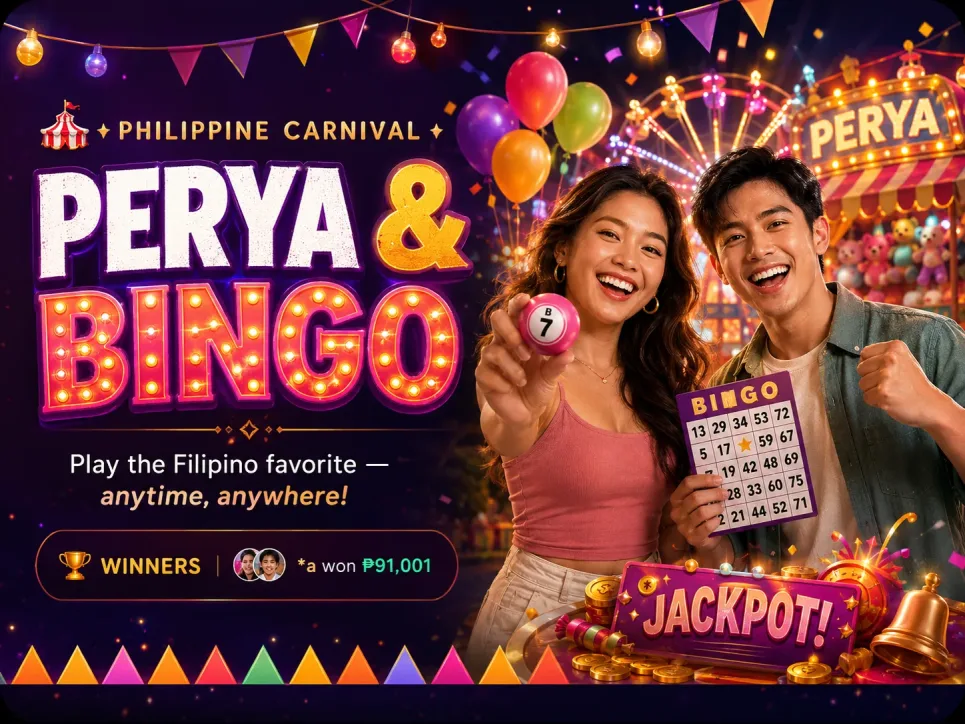
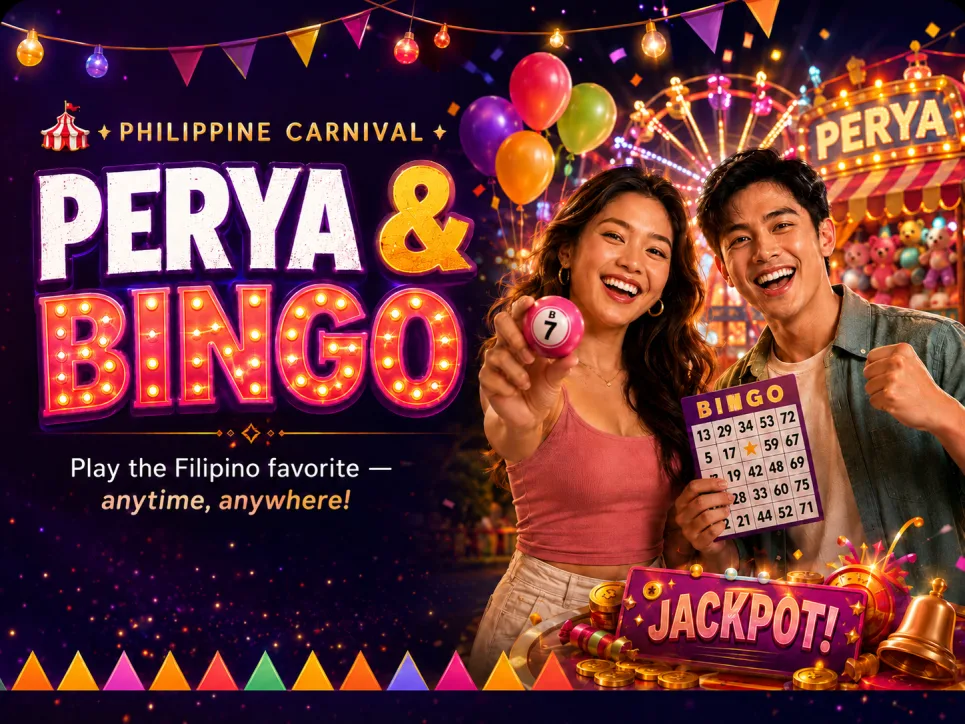
替换 Bingo hero 无赢家背景图

diff --git a/apps/web-tma/src/components/bingo/PeryaCarnivalHero.tsx b/apps/web-tma/src/components/bingo/PeryaCarnivalHero.tsx
@@ -12,7 +12,7 @@ export default function PeryaCarnivalHero({ children }: Props) {
         className="block w-full h-auto"
       />
       {children && (
-        <div className="absolute left-[3.6%] bottom-[18.4%] w-[45%] h-[9.6%]">
+        <div className="absolute left-[3.6%] bottom-[16.8%] w-[45%] h-[9.6%]">
           {children}
         </div>
       )}
